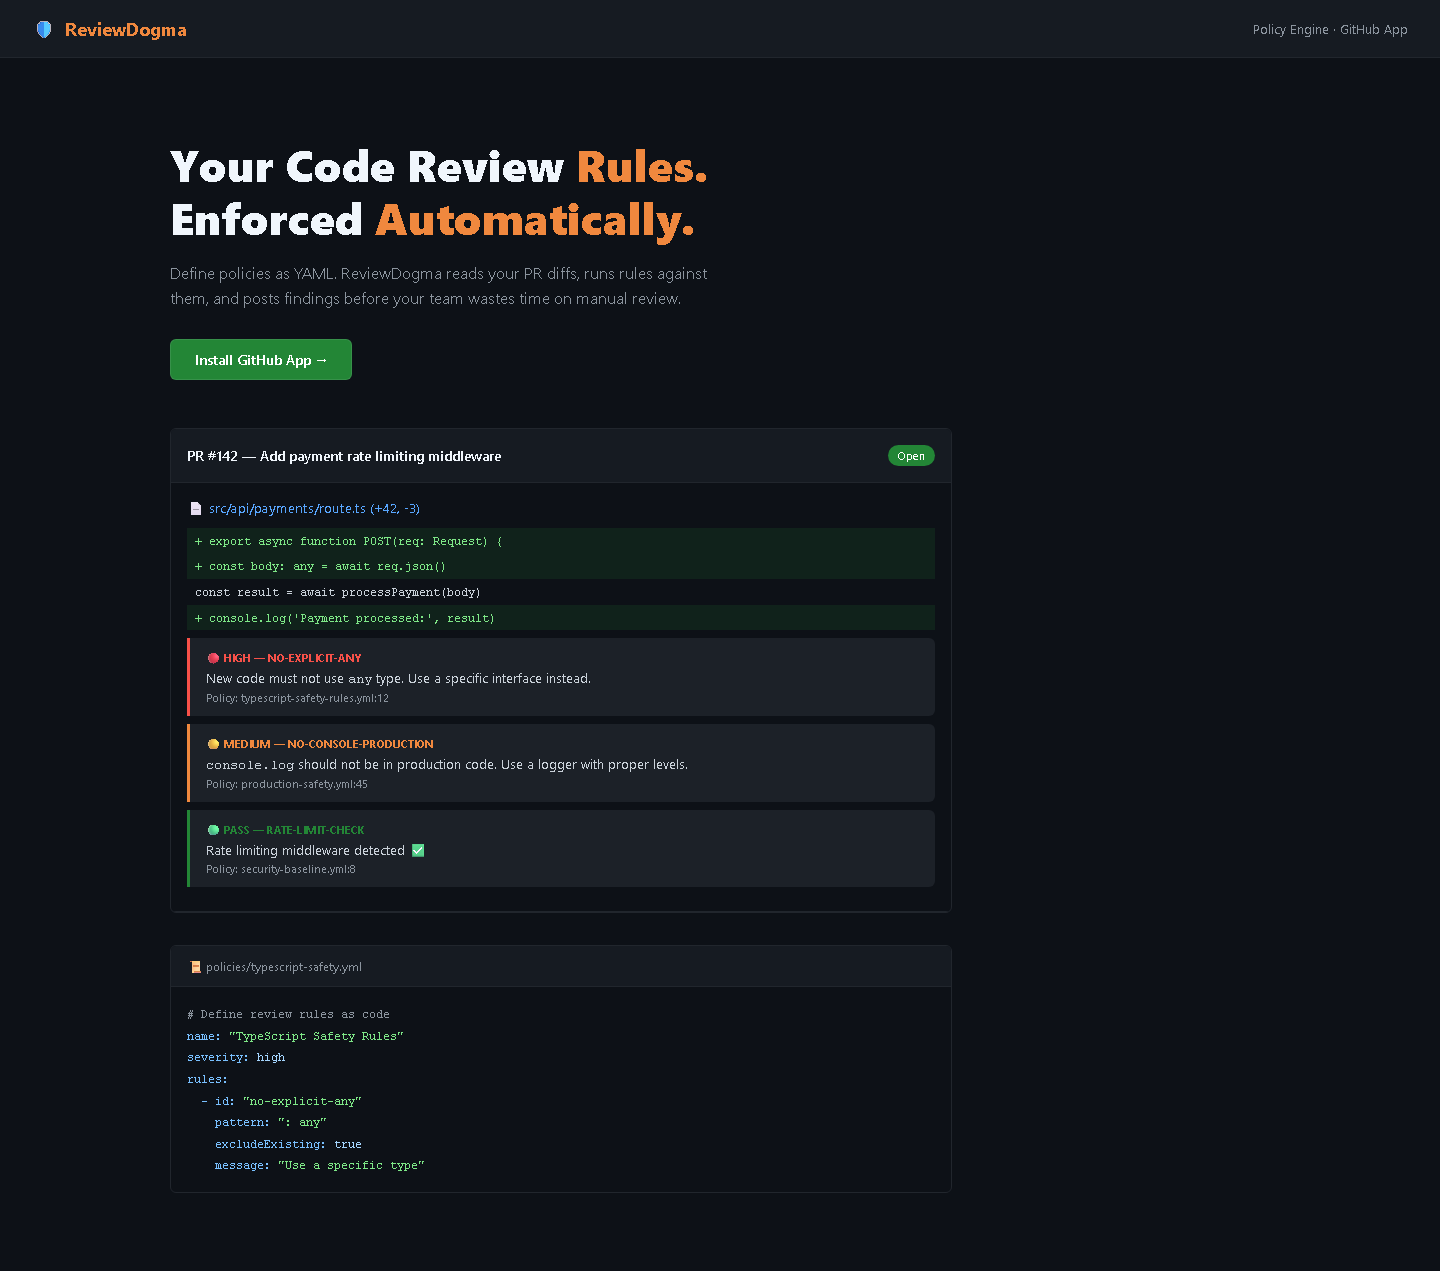
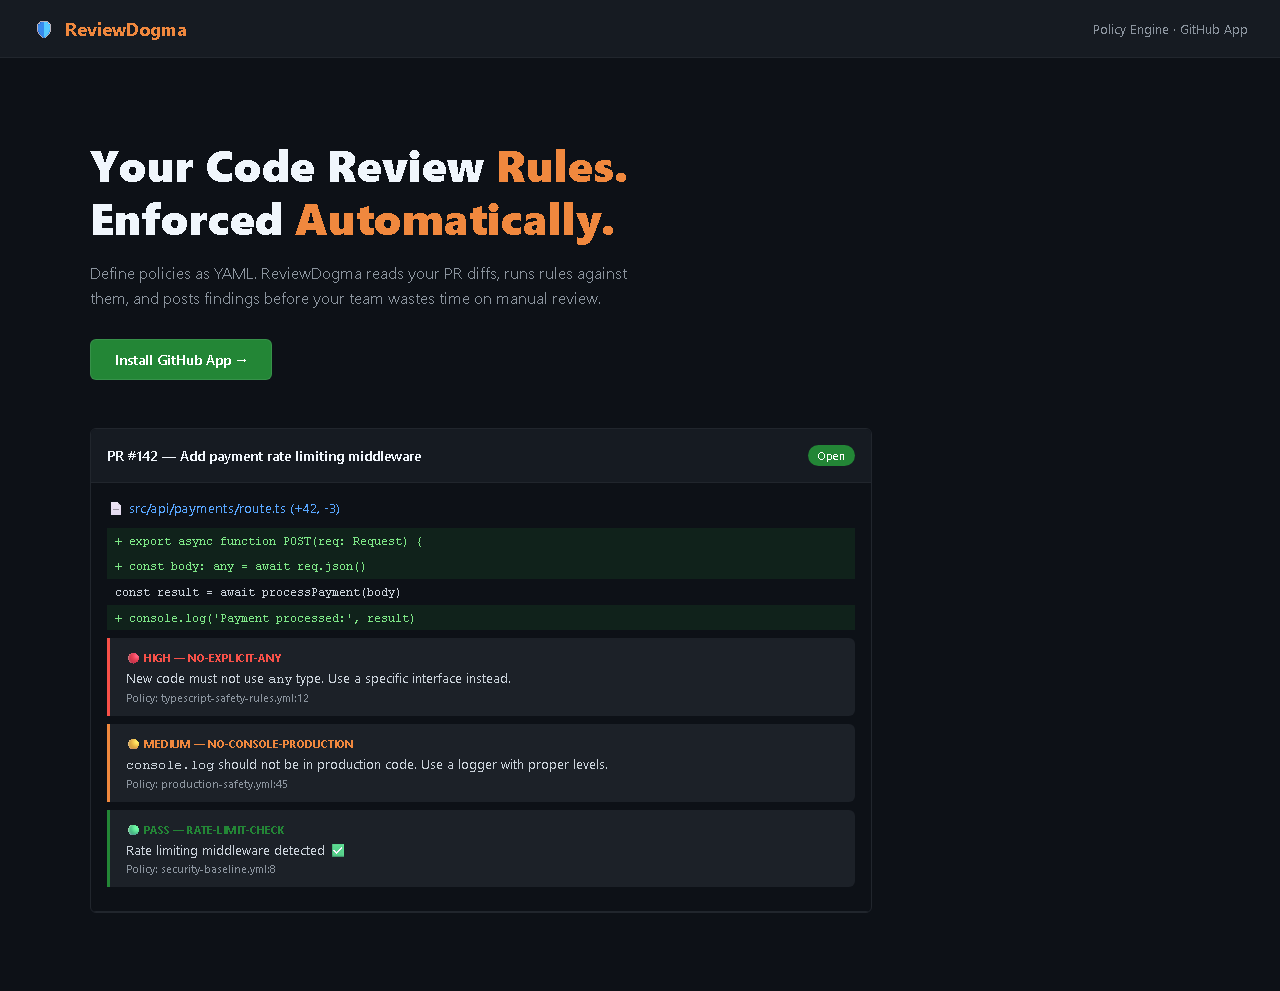
fix: separate screenshots for landing page and functional view — accurate alt-text and labels

diff --git a/screenshots/dashboard.html b/screenshots/dashboard.html
@@ -1,0 +1,66 @@
+<!DOCTYPE html><html lang="en"><head><meta charset="UTF-8"><meta name="viewport" content="width=device-width,initial-scale=1.0"><title>ReviewDogma</title><style>
+      body{font-family:system-ui,sans-serif;background:#0d1117;color:#c9d1d9;margin:0}
+      .nav{padding:16px 32px;display:flex;justify-content:space-between;align-items:center;background:#161b22;border-bottom:1px solid #21262d}
+      .logo{font-size:18px;font-weight:700;display:flex;align-items:center;gap:8px}
+      .logo span{color:#f0883e}
+      .hero{padding:80px 32px;max-width:1100px;margin:0 auto}
+      .hero h1{font-size:44px;font-weight:800;color:#f0f6fc;margin:0 0 16px;line-height:1.2}
+      .hero h1 span{color:#f0883e}
+      .hero p{font-size:16px;color:#8b949e;max-width:560px;line-height:1.6;margin:0 0 28px}
+      .btn{display:inline-flex;padding:10px 24px;border-radius:6px;background:#238636;color:#fff;font-weight:600;font-size:14px;text-decoration:none;border:1px solid rgba(240,246,252,.1)}
+      .pr-preview{margin-top:48px;background:#0d1117;border:1px solid #21262d;border-radius:6px;overflow:hidden;max-width:780px}
+      .pr-hdr{padding:16px;background:#161b22;border-bottom:1px solid #21262d;display:flex;justify-content:space-between;align-items:center;font-size:14px}
+      .pr-hdr .pr-title{color:#f0f6fc;font-weight:600}
+      .pr-hdr .pr-badge{padding:4px 10px;border-radius:12px;background:#238636;color:#fff;font-size:11px;font-weight:600}
+      .pr-file{padding:16px;border-bottom:1px solid #21262d}
+      .pr-file .fname{font-size:13px;font-weight:600;color:#58a6ff;margin-bottom:12px}
+      .pr-diff{font-family:'JetBrains Mono',monospace;font-size:12px;line-height:1.8}
+      .diff-add{background:rgba(35,134,54,.15);color:#7ee787;padding:2px 8px;display:block}
+      .diff-rem{background:rgba(218,54,51,.15);color:#f85149;padding:2px 8px;display:block}
+      .diff-norm{color:#c9d1d9;padding:2px 8px;display:block}
+      .review-comment{margin:8px 0;padding:12px 16px;background:#1c2128;border-left:3px solid #f0883e;border-radius:0 6px 6px 0}
+      .review-comment .severity{font-size:11px;font-weight:700;color:#f0883e;text-transform:uppercase;margin-bottom:4px}
+      .review-comment .msg{font-size:13px;color:#c9d1d9}
+      .review-comment .rule{font-size:11px;color:#8b949e;margin-top:4px}
+      .yaml-preview{margin-top:32px;max-width:780px;background:#0d1117;border:1px solid #21262d;border-radius:6px;overflow:hidden}
+      .yaml-hdr{padding:12px 16px;background:#161b22;border-bottom:1px solid #21262d;font-size:12px;color:#8b949e}
+      .yaml-body{padding:16px;font-family:'JetBrains Mono',monospace;font-size:12px;line-height:1.8;color:#c9d1d9}
+      .yaml-key{color:#79c0ff}.yaml-val{color:#a5d6ff}.yaml-str{color:#7ee787}.yaml-cmt{color:#8b949e}
+    
+.hero h1, .hero p, .btn { display: none !important; } .pr-preview { margin-top: 0 !important; } .hero { padding: 20px 32px !important; } .nav { position: relative; }
+</style></head><body>
+      <nav class="nav"><div class="logo">🛡️ <span>ReviewDogma</span></div><div style="color:#8b949e;font-size:13px">Policy Engine · GitHub App</div></nav>
+      <section class="hero">
+        <h1>Your Code Review <span>Rules.</span><br>Enforced <span>Automatically.</span></h1>
+        <p>Define policies as YAML. ReviewDogma reads your PR diffs, runs rules against them, and posts findings before your team wastes time on manual review.</p>
+        <a href="#" class="btn">Install GitHub App →</a>
+        <div class="pr-preview">
+          <div class="pr-hdr"><div class="pr-title">PR #142 — Add payment rate limiting middleware</div><div class="pr-badge">Open</div></div>
+          <div class="pr-file">
+            <div class="fname">📄 src/api/payments/route.ts (+42, -3)</div>
+            <div class="pr-diff">
+              <div class="diff-add">+ export async function POST(req: Request) {</div>
+              <div class="diff-add">+   const body: any = await req.json()</div>
+              <div class="diff-norm">    const result = await processPayment(body)</div>
+              <div class="diff-add">+   console.log('Payment processed:', result)</div>
+            </div>
+            <div class="review-comment" style="border-left-color:#f85149"><div class="severity" style="color:#f85149">🔴 HIGH — no-explicit-any</div><div class="msg">New code must not use <code>any</code> type. Use a specific interface instead.</div><div class="rule">Policy: typescript-safety-rules.yml:12</div></div>
+            <div class="review-comment"><div class="severity">🟡 MEDIUM — no-console-production</div><div class="msg"><code>console.log</code> should not be in production code. Use a logger with proper levels.</div><div class="rule">Policy: production-safety.yml:45</div></div>
+            <div class="review-comment" style="border-left-color:#238636"><div class="severity" style="color:#238636">🟢 PASS — rate-limit-check</div><div class="msg">Rate limiting middleware detected ✅</div><div class="rule">Policy: security-baseline.yml:8</div></div>
+          </div>
+        </div>
+        <div class="yaml-preview">
+          <div class="yaml-hdr">📜 policies/typescript-safety.yml</div>
+          <div class="yaml-body">
+            <span class="yaml-cmt"># Define review rules as code</span><br>
+            <span class="yaml-key">name:</span> <span class="yaml-str">"TypeScript Safety Rules"</span><br>
+            <span class="yaml-key">severity:</span> <span class="yaml-val">high</span><br>
+            <span class="yaml-key">rules:</span><br>
+            &nbsp;&nbsp;<span class="yaml-key">- id:</span> <span class="yaml-str">"no-explicit-any"</span><br>
+            &nbsp;&nbsp;&nbsp;&nbsp;<span class="yaml-key">pattern:</span> <span class="yaml-str">": any"</span><br>
+            &nbsp;&nbsp;&nbsp;&nbsp;<span class="yaml-key">excludeExisting:</span> <span class="yaml-val">true</span><br>
+            &nbsp;&nbsp;&nbsp;&nbsp;<span class="yaml-key">message:</span> <span class="yaml-str">"Use a specific type"</span>
+          </div>
+        </div>
+      </section>
+    </body></html>

diff --git a/screenshots/hero.html b/screenshots/hero.html
@@ -1,0 +1,66 @@
+<!DOCTYPE html><html lang="en"><head><meta charset="UTF-8"><meta name="viewport" content="width=device-width,initial-scale=1.0"><title>ReviewDogma</title><style>
+      body{font-family:system-ui,sans-serif;background:#0d1117;color:#c9d1d9;margin:0}
+      .nav{padding:16px 32px;display:flex;justify-content:space-between;align-items:center;background:#161b22;border-bottom:1px solid #21262d}
+      .logo{font-size:18px;font-weight:700;display:flex;align-items:center;gap:8px}
+      .logo span{color:#f0883e}
+      .hero{padding:80px 32px;max-width:1100px;margin:0 auto}
+      .hero h1{font-size:44px;font-weight:800;color:#f0f6fc;margin:0 0 16px;line-height:1.2}
+      .hero h1 span{color:#f0883e}
+      .hero p{font-size:16px;color:#8b949e;max-width:560px;line-height:1.6;margin:0 0 28px}
+      .btn{display:inline-flex;padding:10px 24px;border-radius:6px;background:#238636;color:#fff;font-weight:600;font-size:14px;text-decoration:none;border:1px solid rgba(240,246,252,.1)}
+      .pr-preview{margin-top:48px;background:#0d1117;border:1px solid #21262d;border-radius:6px;overflow:hidden;max-width:780px}
+      .pr-hdr{padding:16px;background:#161b22;border-bottom:1px solid #21262d;display:flex;justify-content:space-between;align-items:center;font-size:14px}
+      .pr-hdr .pr-title{color:#f0f6fc;font-weight:600}
+      .pr-hdr .pr-badge{padding:4px 10px;border-radius:12px;background:#238636;color:#fff;font-size:11px;font-weight:600}
+      .pr-file{padding:16px;border-bottom:1px solid #21262d}
+      .pr-file .fname{font-size:13px;font-weight:600;color:#58a6ff;margin-bottom:12px}
+      .pr-diff{font-family:'JetBrains Mono',monospace;font-size:12px;line-height:1.8}
+      .diff-add{background:rgba(35,134,54,.15);color:#7ee787;padding:2px 8px;display:block}
+      .diff-rem{background:rgba(218,54,51,.15);color:#f85149;padding:2px 8px;display:block}
+      .diff-norm{color:#c9d1d9;padding:2px 8px;display:block}
+      .review-comment{margin:8px 0;padding:12px 16px;background:#1c2128;border-left:3px solid #f0883e;border-radius:0 6px 6px 0}
+      .review-comment .severity{font-size:11px;font-weight:700;color:#f0883e;text-transform:uppercase;margin-bottom:4px}
+      .review-comment .msg{font-size:13px;color:#c9d1d9}
+      .review-comment .rule{font-size:11px;color:#8b949e;margin-top:4px}
+      .yaml-preview{margin-top:32px;max-width:780px;background:#0d1117;border:1px solid #21262d;border-radius:6px;overflow:hidden}
+      .yaml-hdr{padding:12px 16px;background:#161b22;border-bottom:1px solid #21262d;font-size:12px;color:#8b949e}
+      .yaml-body{padding:16px;font-family:'JetBrains Mono',monospace;font-size:12px;line-height:1.8;color:#c9d1d9}
+      .yaml-key{color:#79c0ff}.yaml-val{color:#a5d6ff}.yaml-str{color:#7ee787}.yaml-cmt{color:#8b949e}
+    
+.yaml-preview { display: none !important; } body { overflow-y: auto; }
+</style></head><body>
+      <nav class="nav"><div class="logo">🛡️ <span>ReviewDogma</span></div><div style="color:#8b949e;font-size:13px">Policy Engine · GitHub App</div></nav>
+      <section class="hero">
+        <h1>Your Code Review <span>Rules.</span><br>Enforced <span>Automatically.</span></h1>
+        <p>Define policies as YAML. ReviewDogma reads your PR diffs, runs rules against them, and posts findings before your team wastes time on manual review.</p>
+        <a href="#" class="btn">Install GitHub App →</a>
+        <div class="pr-preview">
+          <div class="pr-hdr"><div class="pr-title">PR #142 — Add payment rate limiting middleware</div><div class="pr-badge">Open</div></div>
+          <div class="pr-file">
+            <div class="fname">📄 src/api/payments/route.ts (+42, -3)</div>
+            <div class="pr-diff">
+              <div class="diff-add">+ export async function POST(req: Request) {</div>
+              <div class="diff-add">+   const body: any = await req.json()</div>
+              <div class="diff-norm">    const result = await processPayment(body)</div>
+              <div class="diff-add">+   console.log('Payment processed:', result)</div>
+            </div>
+            <div class="review-comment" style="border-left-color:#f85149"><div class="severity" style="color:#f85149">🔴 HIGH — no-explicit-any</div><div class="msg">New code must not use <code>any</code> type. Use a specific interface instead.</div><div class="rule">Policy: typescript-safety-rules.yml:12</div></div>
+            <div class="review-comment"><div class="severity">🟡 MEDIUM — no-console-production</div><div class="msg"><code>console.log</code> should not be in production code. Use a logger with proper levels.</div><div class="rule">Policy: production-safety.yml:45</div></div>
+            <div class="review-comment" style="border-left-color:#238636"><div class="severity" style="color:#238636">🟢 PASS — rate-limit-check</div><div class="msg">Rate limiting middleware detected ✅</div><div class="rule">Policy: security-baseline.yml:8</div></div>
+          </div>
+        </div>
+        <div class="yaml-preview">
+          <div class="yaml-hdr">📜 policies/typescript-safety.yml</div>
+          <div class="yaml-body">
+            <span class="yaml-cmt"># Define review rules as code</span><br>
+            <span class="yaml-key">name:</span> <span class="yaml-str">"TypeScript Safety Rules"</span><br>
+            <span class="yaml-key">severity:</span> <span class="yaml-val">high</span><br>
+            <span class="yaml-key">rules:</span><br>
+            &nbsp;&nbsp;<span class="yaml-key">- id:</span> <span class="yaml-str">"no-explicit-any"</span><br>
+            &nbsp;&nbsp;&nbsp;&nbsp;<span class="yaml-key">pattern:</span> <span class="yaml-str">": any"</span><br>
+            &nbsp;&nbsp;&nbsp;&nbsp;<span class="yaml-key">excludeExisting:</span> <span class="yaml-val">true</span><br>
+            &nbsp;&nbsp;&nbsp;&nbsp;<span class="yaml-key">message:</span> <span class="yaml-str">"Use a specific type"</span>
+          </div>
+        </div>
+      </section>
+    </body></html>

diff --git a/readme.md b/readme.md
@@ -8,9 +8,9 @@ Define code review rules as YAML. ReviewDogma reads PR diffs, runs policy checks
 
 ## Screenshots
 
-| PR Diff Analysis with Violations | YAML Policy DSL Editor |
+| Landing Page (PR Review) | Policy Editor (YAML DSL) |
 |:---:|:---:|
-| ![PR Diff Analysis with Violations](screenshots/hero.png) | ![YAML Policy DSL Editor](screenshots/dashboard.png) |
+| ![Policy editor: YAML DSL with syntax highlighting and live validation](screenshots/dashboard.png) |
 
 ## Features
 